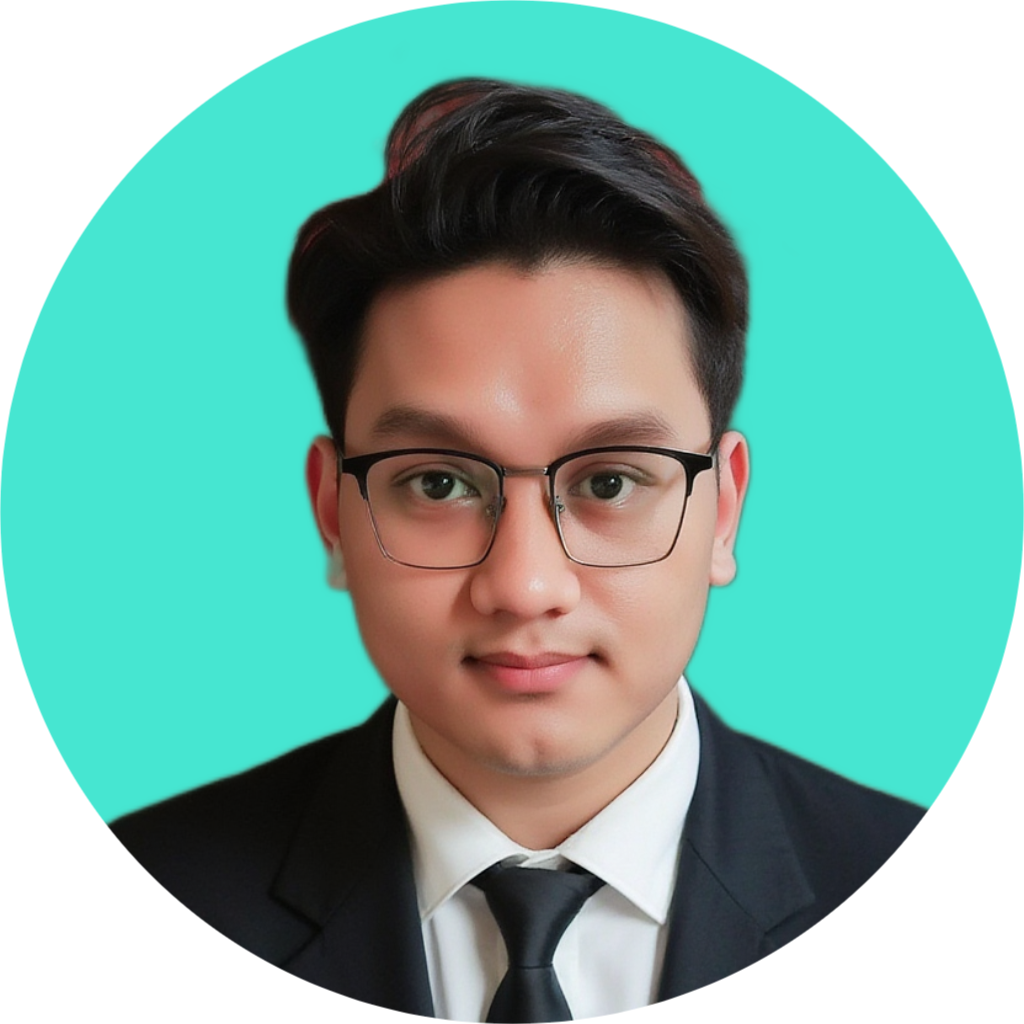
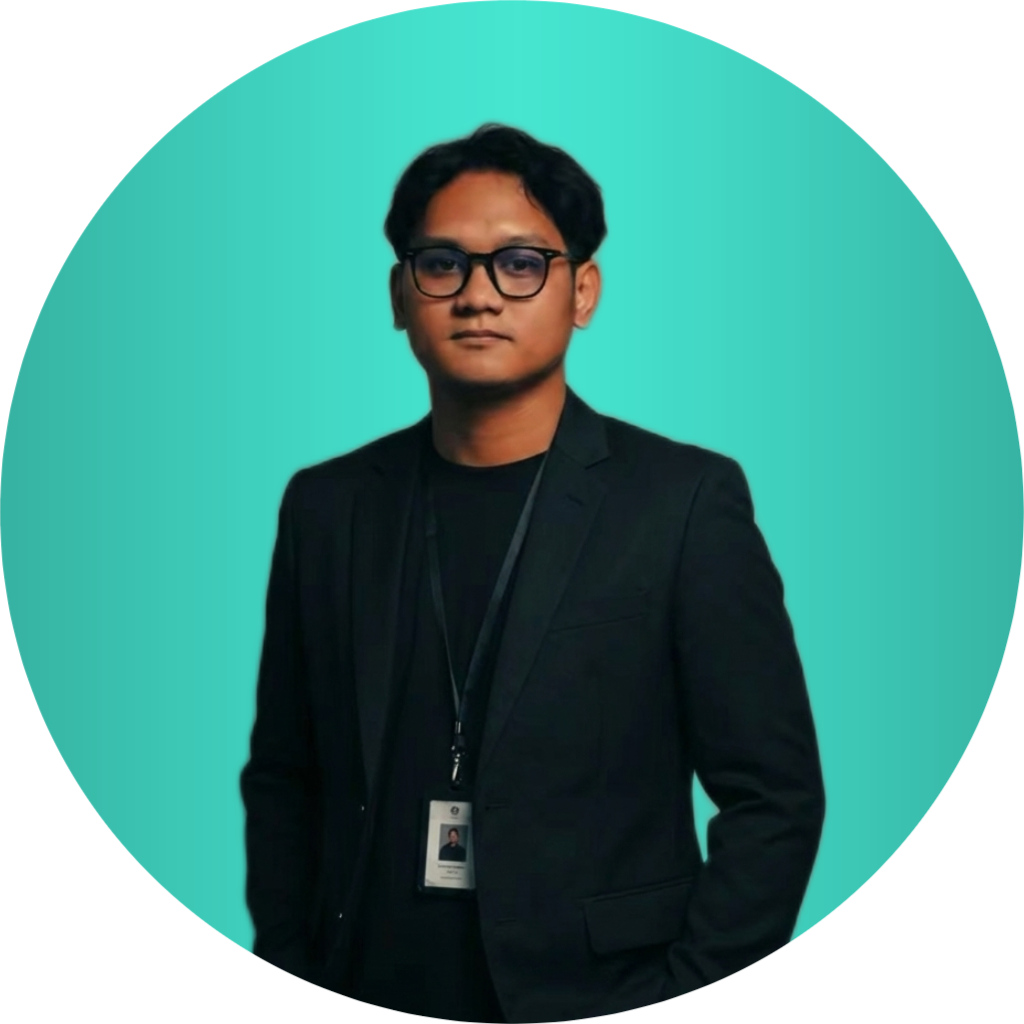
update content, profile picture and skills

diff --git a/index.html b/index.html
@@ -148,8 +148,8 @@
               online interactions
             </h2>
             <p class="about__description">
-              Junior Front End Developer who is passionate about technology and
-              website development. Enthusiastic, highly motivated, a natural
+              Junior IT Staff who is passionate about technology and
+              desktop development. Enthusiastic, highly motivated, a natural
               leader, capable of working in a team, and possesses strong
               problem-solving skills.
             </p>
@@ -286,6 +286,16 @@
                 />
               </div>
               <h3 class="skills__name">Visual Basic</h3>
+            </div>
+            <div class="skills__card">
+              <div class="skills__img-wrapper">
+                <img
+                  src="assets/img/dotnet-logo.svg"
+                  alt="Visual Basic Logo"
+                  class="skills__img"
+                />
+              </div>
+              <h3 class="skills__name">.NET</h3>
             </div>
           </div>
         </div>
